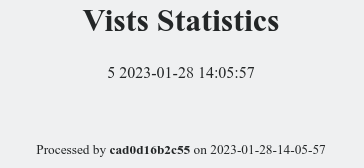
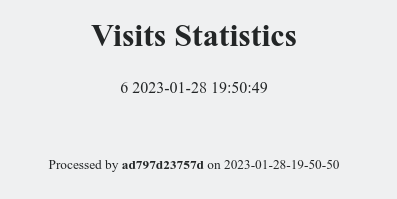
A few minor fixes

Changed region(s): [[0.0907, 0.8036, 0.9066, 0.9226], [0.2115, 0.0595, 0.7857, 0.2381], [0.3022, 0.3869, 0.6951, 0.4762]]

diff --git a/app3/web/index.php b/app3/web/index.php
@@ -5,7 +5,7 @@
   </head>
   <body>
     <div align="center">
-      <h1>Vists Statistics</h1>
+      <h1>Visits Statistics</h1>
 
       <table>
 

diff --git a/app3/README.md b/app3/README.md
@@ -18,7 +18,8 @@ Contains the following set of files:
 ├── Dockerfile.db             ---> used to build the database image
 ├── Dockerfile.web            ---> used to build the web image. Application files should be mounted on start
 ├── Dockerfile.web.embedded   ---> used to build the web image with embedded application files
-└── README.md                 ---> this file
+├── README.md                 ---> this file
+└── visits.png                ---> preview of the application
 ```
 
 Images can be build with the following commands:
